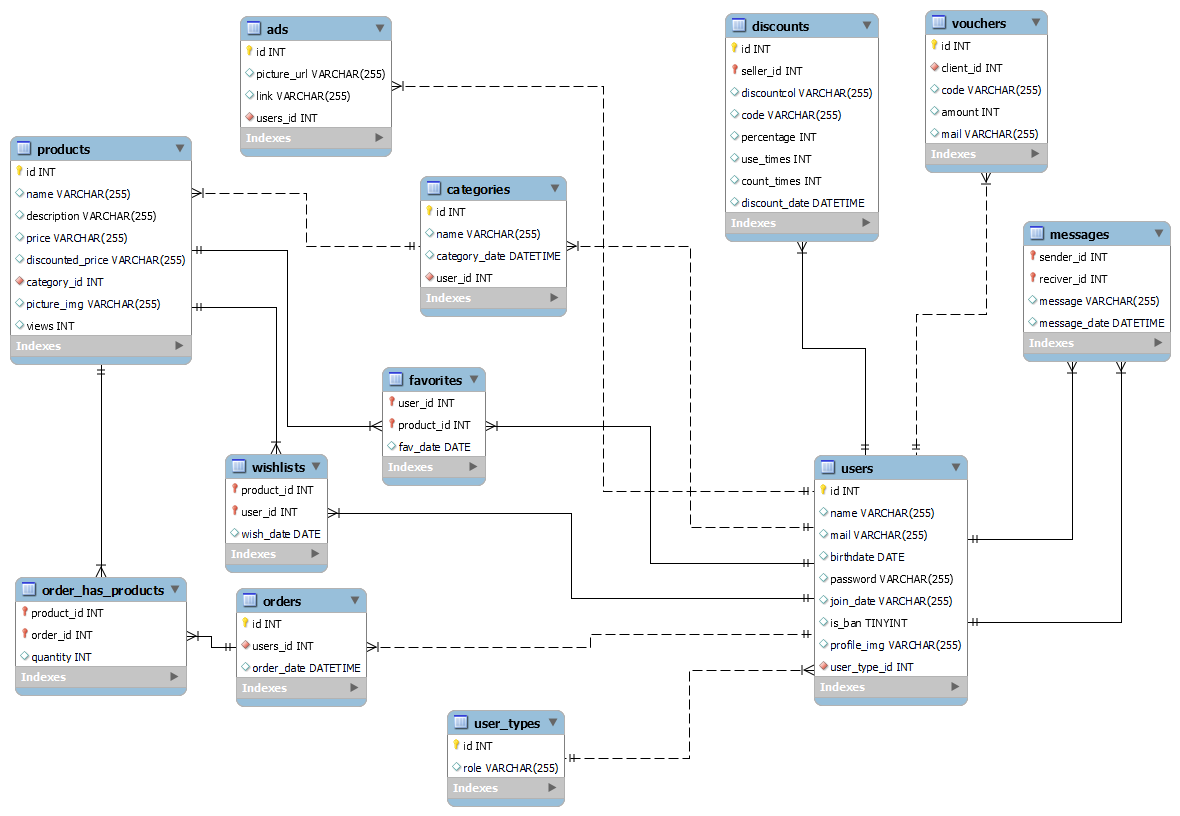
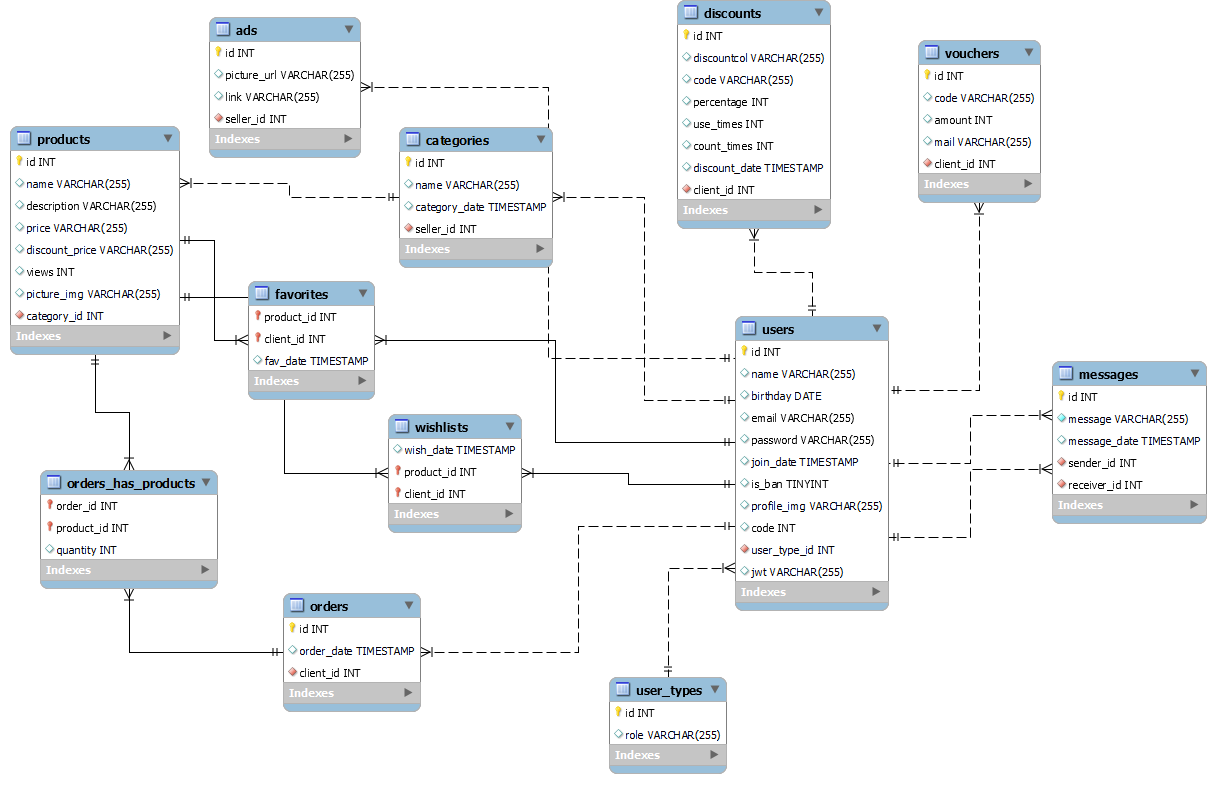
TASK-51 fixing apis attribute names

diff --git a/server/api/clients/edit.php b/server/api/clients/edit.php
@@ -2,18 +2,20 @@
 
 include("../../connection.php");
 
-$id = isset($_POST["id"]);
-$name = isset($_POST["name"]);
-$email = isset($_POST["email"]);
-$birthday =isset($_POST["birthday"]);
-$join_date =isset($_POST["join_date"]);
-$profile_img =isset($_POST["profile_img"]);
-$client_id = isset($_POST["user_type_id"]);
+
+$name = $_POST["name"];
+$email = $_POST["email"];
+$birthday = $_POST["birthday"];
+$profile_img = $_POST["profile_img"];
+$password = $_POST["password"];
+$password = hash('sha256', $password);
+$password .= "a";
+$client_id =$_POST["client_id"];
 
 
-$query = "UPDATE  users SET (name,email,birthday,join_date,profile_img) = (?,?,?,?,?,?) WHERE `id` = $client_id";
+$query = "UPDATE  users SET name = ?,email = ?,birthday = ?,password = ?,profile_img = ? WHERE id = $client_id";
 $query = $mysqli->prepare($query);
-$query->bind_param("sssss", $name,$email,$birthday,$join_date,$profile_img);
+$query->bind_param("sssss", $name,$email,$birthday,$password,$profile_img);
 $query->execute();
 
 if($query)

diff --git a/server/api/clients/get_favorite.php b/server/api/clients/get_favorite.php
@@ -1,22 +1,24 @@
 <?php
 
-include("../../connection.php");
-   
-   if($_SERVER["REQUEST_METHOD"] == "GET")
-   {
+    include("../../connection.php");
     
-        $client_id = isset($_GET["user_types_id"]);
+    $client_id = $_GET["client_id"];
 
-        $query= "SELECT `f.products_id` FROM `favorites` as f,users as u WHERE `f.users_id`=`u.id` = $client_id";
-        $res = $mysqli -> query($query);
+    $query= "SELECT * FROM favorites  WHERE client_id = $client_id";
+    $query = $mysqli->prepare($query);
+    $query->execute();
+    $array = $query->get_result();
 
-        if($res)
-        {
-        echo "Data inserted into the database successfully!";
-        }
-        else
-        {
-        echo "Something went wrong!<BR>";
-        }
+    $response = [];
+
+    while($value = $array->fetch_assoc()){
+        $response[] = $value;
+    };
+
+    if($response){
+        echo json_encode($response); 
+    }else{
+        echo "error";
     }
+    
 ?>

diff --git a/server/api/sign/signup.php b/server/api/sign/signup.php
@@ -8,7 +8,7 @@ if($_SERVER["REQUEST_METHOD"] == "POST")
     $email = $_POST["email"];
     $password = $_POST["password"];
     $birthday =$_POST["birthday"];
-    $user_types_id = 2;
+    $user_type_id = 2;
     $is_ban = 0;
     $code = rand(0,10)*100;
     $code .= rand(0,10)*100;
@@ -27,8 +27,8 @@ if($_SERVER["REQUEST_METHOD"] == "POST")
 
     $passHash = hash("sha256", $_POST["password"]);
     $passHash .= "a";
-    $query = $mysqli->prepare("INSERT INTO users (`name`,`email`, `password`,`code`,`birthday`,`user_types_id`,`is_ban`) VALUES (?,?,? ,?, ?,?, ?)");
-    $query->bind_param("sssssss", $name, $email,$passHash,$code,$birthday,$user_types_id,$is_ban);
+    $query = $mysqli->prepare("INSERT INTO users (`name`,`email`, `password`,`code`,`birthday`,`user_type_id`,`is_ban`) VALUES (?,?,? ,?, ?,?, ?)");
+    $query->bind_param("sssssss", $name, $email,$passHash,$code,$birthday,$user_type_id,$is_ban);
     $query->execute();
 
 

diff --git a/server/api/clients/get_wishlist.php b/server/api/clients/get_wishlist.php
@@ -1,24 +1,24 @@
 <?php
 
-include("../../connection.php");
-   
-$wish_id = $_GET["wish_id"];
+    include("../../connection.php");
+    
+    $client_id = $_GET["client_id"];
 
-$query = $mysqli->prepare("SELECT * FROM products  WHERE id = ?");
-$query->bind_param('i', $wish_id);
-$query->execute();
-$array = $query->get_result();
+    $query= "SELECT * FROM wishlists  WHERE client_id = $client_id";
+    $query = $mysqli->prepare($query);
+    $query->execute();
+    $array = $query->get_result();
 
-$response = [];
+    $response = [];
 
-while($value = $array->fetch_assoc()){
-    $response[] = $value;
-};
+    while($value = $array->fetch_assoc()){
+        $response[] = $value;
+    };
 
-if($response){
-    echo json_encode($response); 
-}else{
-    echo "error";
-}
-
+    if($response){
+        echo json_encode($response); 
+    }else{
+        echo "error";
+    }
+    
 ?>

diff --git a/server/api/messages/send.php b/server/api/messages/send.php
@@ -2,17 +2,13 @@
 include("../../connection.php");
 
 
-if($_SERVER["REQUEST_METHOD"] == "POST"){
+
     $message = $_POST["message"];
-    $sender_id = isset($_POST["sender_id"]);
-    $receiver_id = isset($_POST["receiver_id"]);
-    $message_date = $_POST["message_date"];
+    $sender_id = $_GET["sender_id"];
     
-
-    $sql = "INSERT INTO messages(receiver_id, sender_id,message_date,message) VALUE (?,?,?,?)";
+    $sql = "INSERT INTO messages(message,sender_id) VALUE (?,?)";
     $query =$mysqli->prepare($sql);
-
-    $query->bind_param("ssss", $receiver_id, $sender_id, $message_date, $message);
+    $query->bind_param('ss', $message,$sender_id);
     $query->execute();
 
     if($query){
@@ -21,7 +17,7 @@ if($_SERVER["REQUEST_METHOD"] == "POST"){
     }else{
         echo "something went wrong";
     }
-}
+
 
 
 ?>

diff --git a/server/api/ads/all.php b/server/api/ads/all.php
@@ -2,24 +2,23 @@
 
 include("../../connection.php");
 
-$ads_id = $_GET["ads_id"];
+$picture_url = $_GET["picture_url"];
 
 $query = $mysqli->prepare("SELECT * FROM ads WHERE id = ?");
-$query->bind_param('i', $ads_id);
+$query->bind_param('i', $picture_url);
 $query->execute();
 
-$arr = $query->get_result();
+$array = $query->get_result();
 
-$result =[];
-while($value = $arr->fetch_assoc()){
-    $result[] = $value;
+$response = [];
+
+while($value = $array->fetch_assoc()){
+    $response[] = $value;
 };
 
-if(!$result){
-    $response["exist"] = FALSE;
+if($response){
+    echo json_encode($response); 
 }else{
-    $response["exist"] = TRUE;
+    echo "error";
 }
-
-echo json_encode($response);
 ?>

diff --git a/server/api/orders/delete.php b/server/api/orders/delete.php
@@ -2,24 +2,23 @@
 
 include("../../connection.php");
 
-$id = isset($_POST["id"]);
+if($_SERVER["REQUEST_METHOD"] == "POST"){
 
+  $client_id = $_GET["client_id"];
+  
+  $query =$mysqli->prepare("DELETE FROM orders WHERE id = ?");
+  $query->bind_param('i', $client_id);
+  $array = $query->get_result();
 
-$query = "DELETE FROM orders WHERE `id` = ?";
+  $query->execute();
 
-$query = $mysqli->prepare($query);
-$query->bind_param("s", $id);
-$query->execute();
+  if($query){
+      echo "done successfully";
 
-
-if($query)
-{
-  echo "done successfully!";
-
-}
-else
-{
-  echo "Something went wrong!";
+  }else{
+      echo "something went wrong";
+  }
 }
 
 ?>
+

diff --git a/server/api/orders/add.php b/server/api/orders/add.php
@@ -3,13 +3,14 @@
 include("../../connection.php");
 
 if($_SERVER["REQUEST_METHOD"] == "POST"){
-  $date = $_POST["order_date"];
-  $client_id = $_POST["user_types_id"];
-
-
-  $query = "INSERT INTO orders ( order_date) VALUE (?) WHERE `users_id` = $client_id";
+  
+  $date = $_POST["date"];
+  $client_id = $_GET["client_id"];
+  $product_id = $_GET["product_id"];
+  
+  $query = "INSERT INTO orders(id,client_id, order_date) VALUE (?,?,?)";
   $query = $mysqli->prepare($query);
-  $query->bind_param("s",$date);
+  $query->bind_param("sss",$product_id,$client_id,$date);
   $query->execute();
 
   if($query)

diff --git a/server/api/ads/seller.php b/server/api/ads/seller.php
@@ -7,19 +7,17 @@ $seller_id = $_GET["seller_id"];
 $query = $mysqli->prepare("SELECT * FROM ads WHERE id = ?");
 $query->bind_param('i', $seller_id);
 $query->execute();
-$arr = $query->get_result();
+$array = $query->get_result();
 
+$response = [];
 
-$result =[];
-while($value = $arr->fetch_assoc()){
-    $result[] = $value;
+while($value = $array->fetch_assoc()){
+    $response[] = $value;
 };
 
-if(!$result){
-    $response["exist"] = FALSE;
+if($response){
+    echo json_encode($response); 
 }else{
-    $response["exist"] = TRUE;
+    echo "error";
 }
-
-echo json_encode($response);
 ?>

diff --git a/server/api/clients/get_orders.php b/server/api/clients/get_orders.php
@@ -1,12 +1,11 @@
 <?php
 
-include("../../connection.php");
+    include("../../connection.php");
+    
+    $client_id = $_GET["client_id"];
 
-
-    $order_id = $_GET["order_id"];
-
-    $query = $mysqli->prepare("SELECT * FROM products  WHERE id = ?");
-    $query->bind_param('i', $order_id);
+    $query= "SELECT * FROM orders  WHERE client_id = $client_id";
+    $query = $mysqli->prepare($query);
     $query->execute();
     $array = $query->get_result();
 
@@ -21,5 +20,5 @@ include("../../connection.php");
     }else{
         echo "error";
     }
-
+    
 ?>

diff --git a/server/api/sellers/add.php b/server/api/sellers/add.php
@@ -12,9 +12,9 @@ if($_SERVER["REQUEST_METHOD"] == "POST"){
   $profile_img =($_POST["profile_img"]);
   
   
-  $query = "INSERT INTO users(id,name,email,birthday,profile_img,password) VALUE (?,?,?,?,?,?)";
+  $query = "INSERT INTO users(id,name,email,profile_img,password) VALUE (?,?,?,?,?)";
   $query =$mysqli->prepare($query);
-  $query->bind_param("ssssss",$seller_id,$name,$email,$birthday,$profile_img,$password);
+  $query->bind_param("sssss",$seller_id,$name,$email,$profile_img,$password);
   $query->execute();
 
   if($query){

diff --git a/server/api/ads/add.php b/server/api/ads/add.php
@@ -2,14 +2,12 @@
 
 include("../../connection.php");
 
-
-$pic_url = $_POST["picture_url"];
+$picture_url = $_POST["picture_url"];
 $link = $_POST["link"];
 $seller_id = $_POST["seller_id"];
 
-$query = "INSERT INTO ads ( picture_url,link) VALUE (?,?) WHERE id = $seller_id";
-$query = $mysqli->prepare($query);
-$query->bind_param('ss', $pic_url,$link);
+$query = $mysqli->prepare("INSERT INTO ads(picture_url,link,seller_id) VALUE (?,?,?)");
+$query->bind_param('sss', $picture_url,$link,$seller_id);
 $query->execute();
 
 
